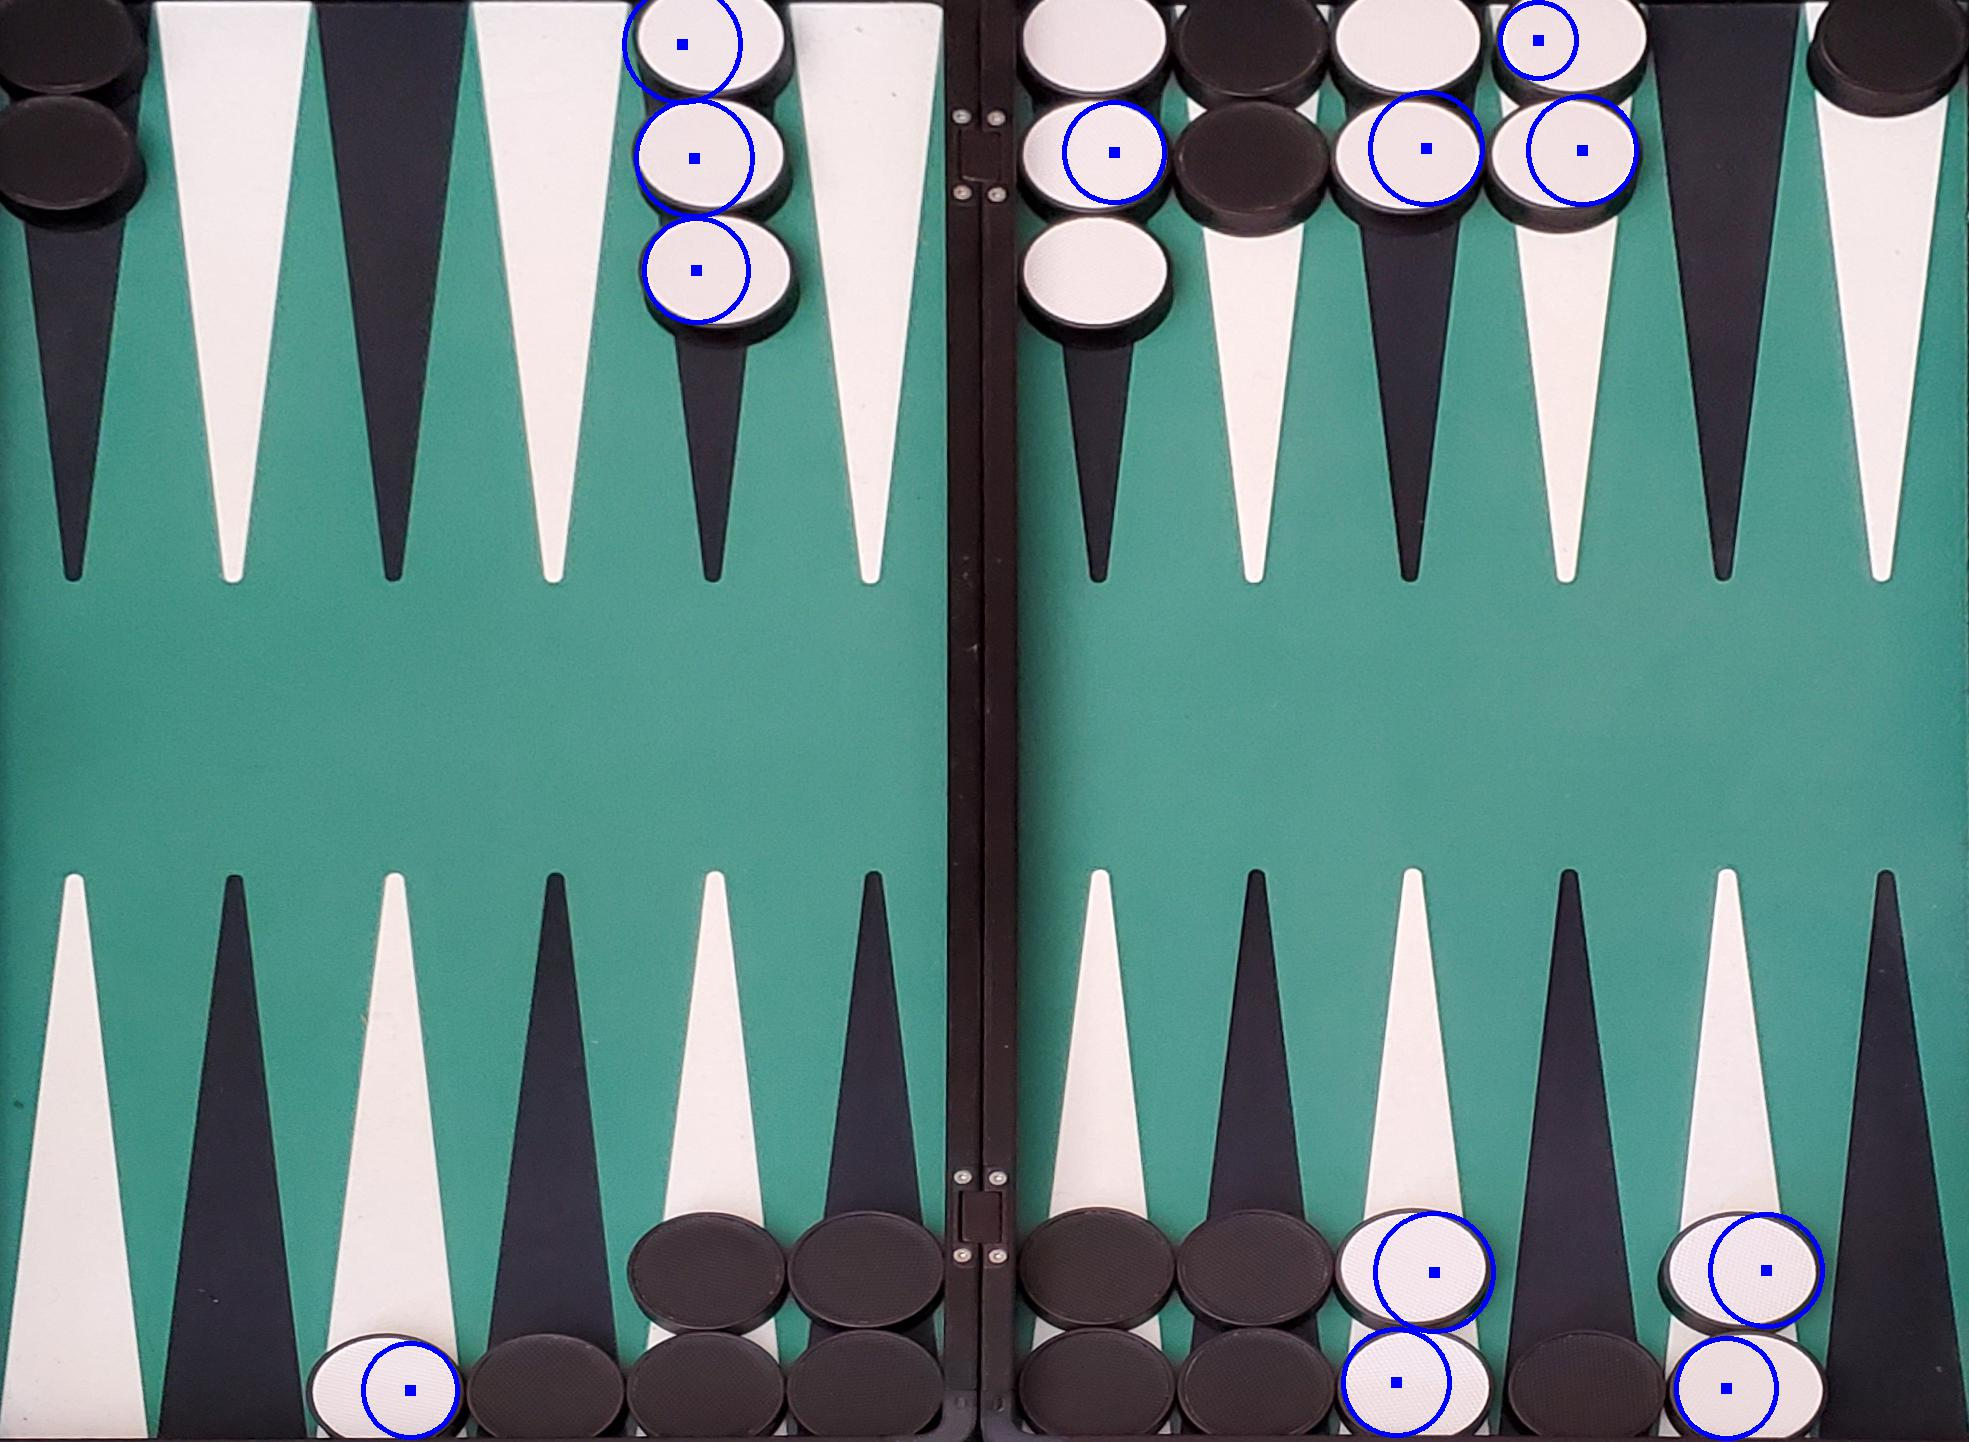
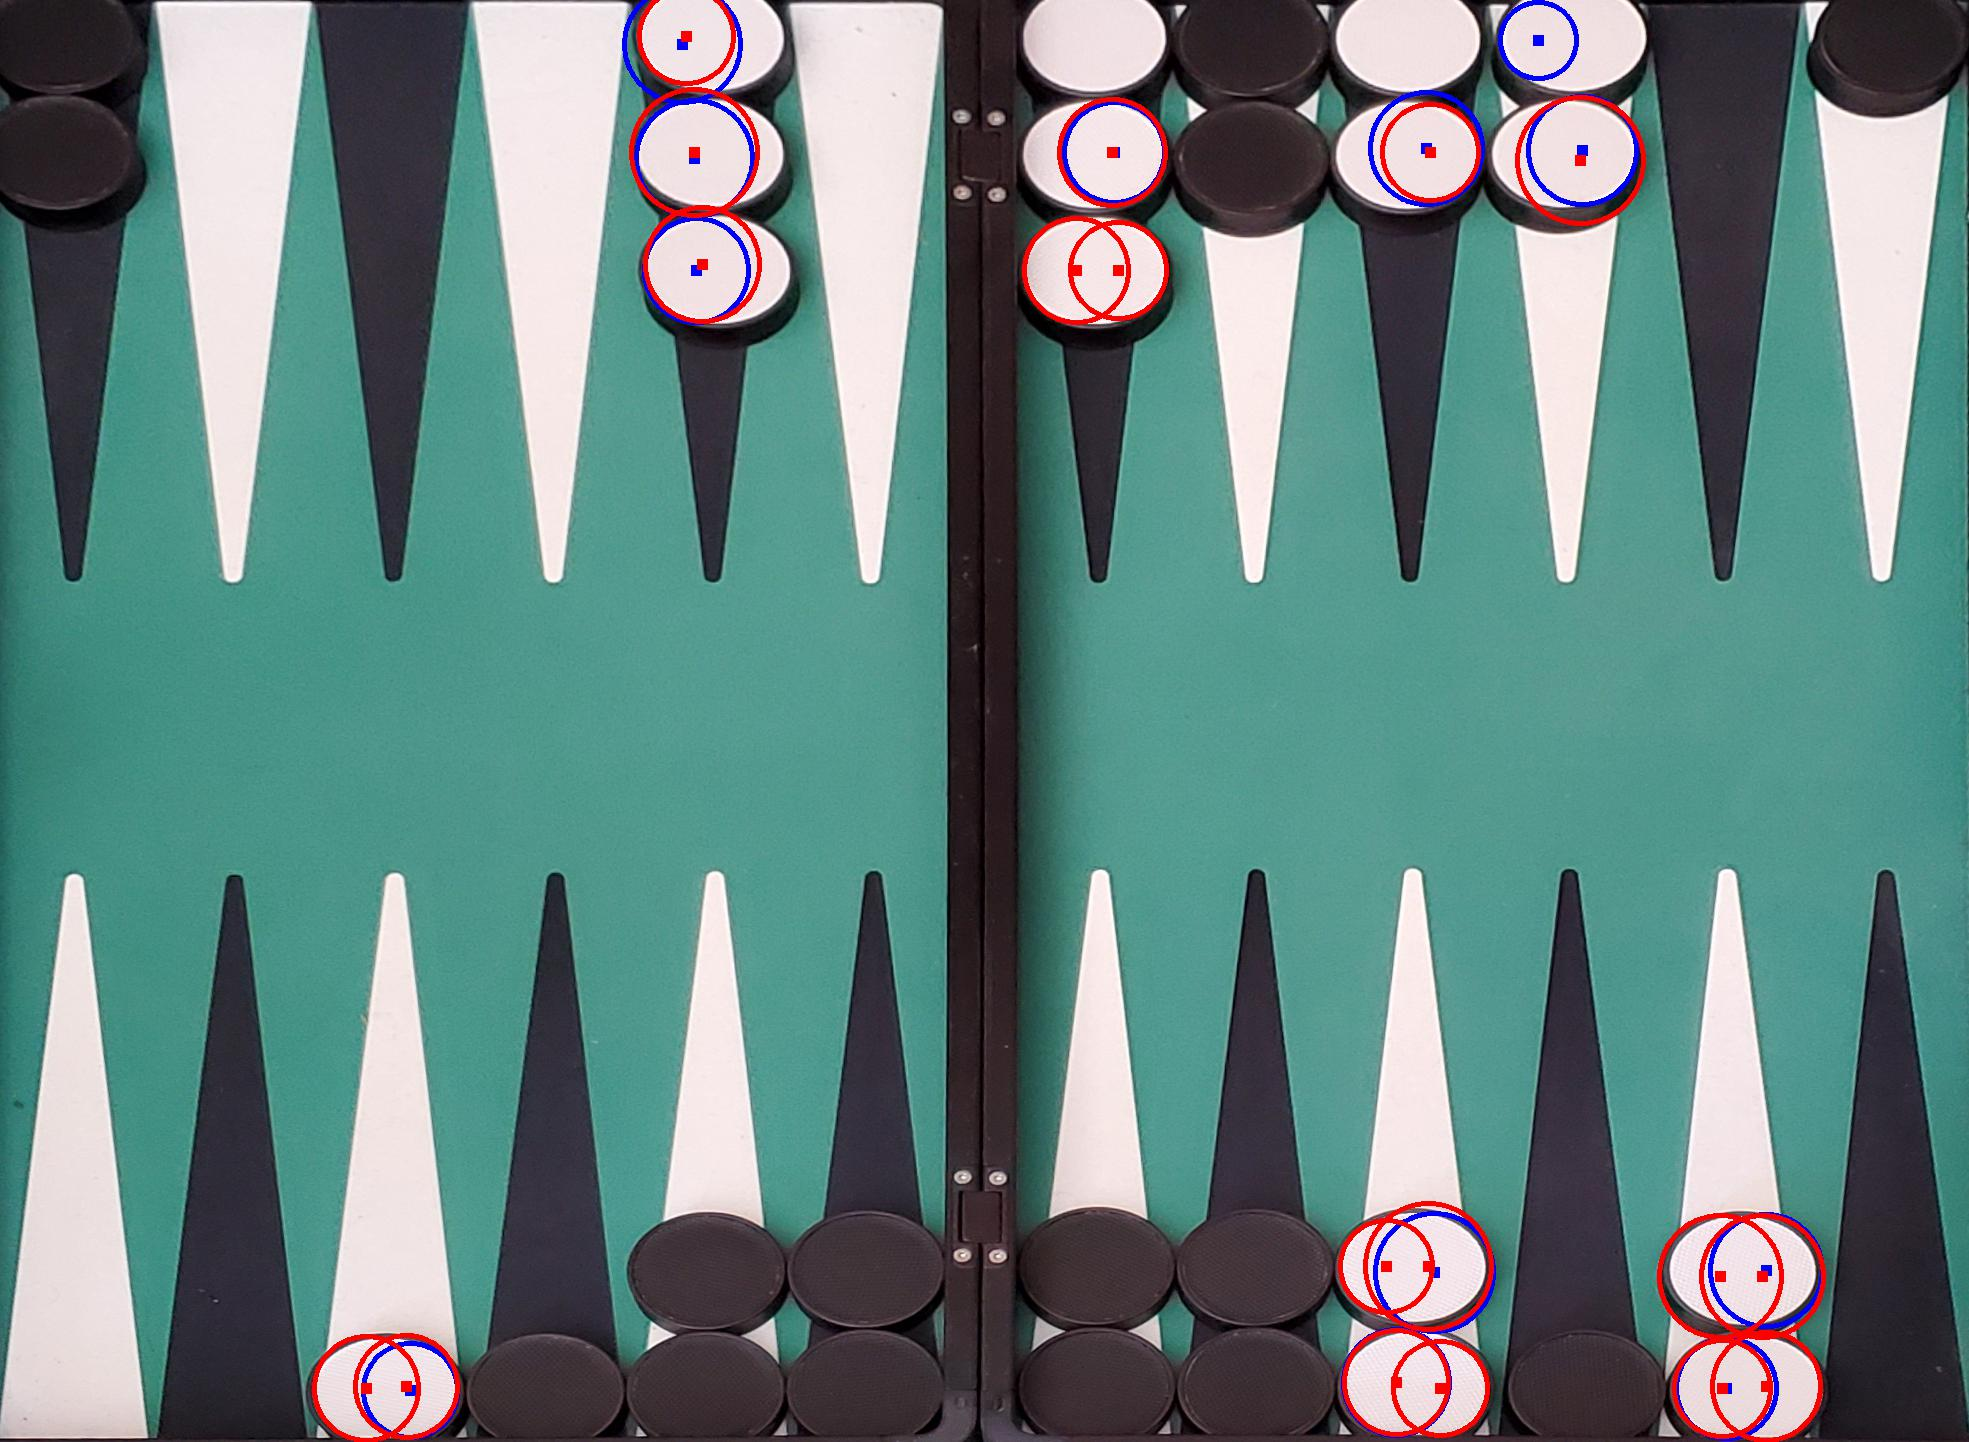
secondary circle detection work in progress

diff --git a/warp_and_find_checker.py b/warp_and_find_checker.py
@@ -129,6 +129,17 @@ for i, gray in enumerate(resizeds):
         radii[i] = np.median(radii[i])
     else:
         print('0 circles found')
+    
+    TOLERANCE = 10
+    circles2 = cv2.HoughCircles(gray, cv2.HOUGH_GRADIENT, 1, 40, param1=50, param2=20, minRadius=int(round(radii[i]))-TOLERANCE, maxRadius=int(round(radii[i]))+TOLERANCE)
+    if circles2 is not None:
+        print(len(circles2[0]), 'circles found in second round')
+        circles2 = np.round(circles2[0, :]).astype("int")
+        for (x, y, r) in circles2:
+            cv2.circle(output, (x, y), r, (255, 0, 0), 4)
+            cv2.rectangle(output, (x - 5, y - 5), (x + 5, y + 5), (255, 0, 0), -1)
+            centres[i].append((x, y))
+    
     processed.append(output)
     processing.append(gray)
     print('image', i, 'processed')
